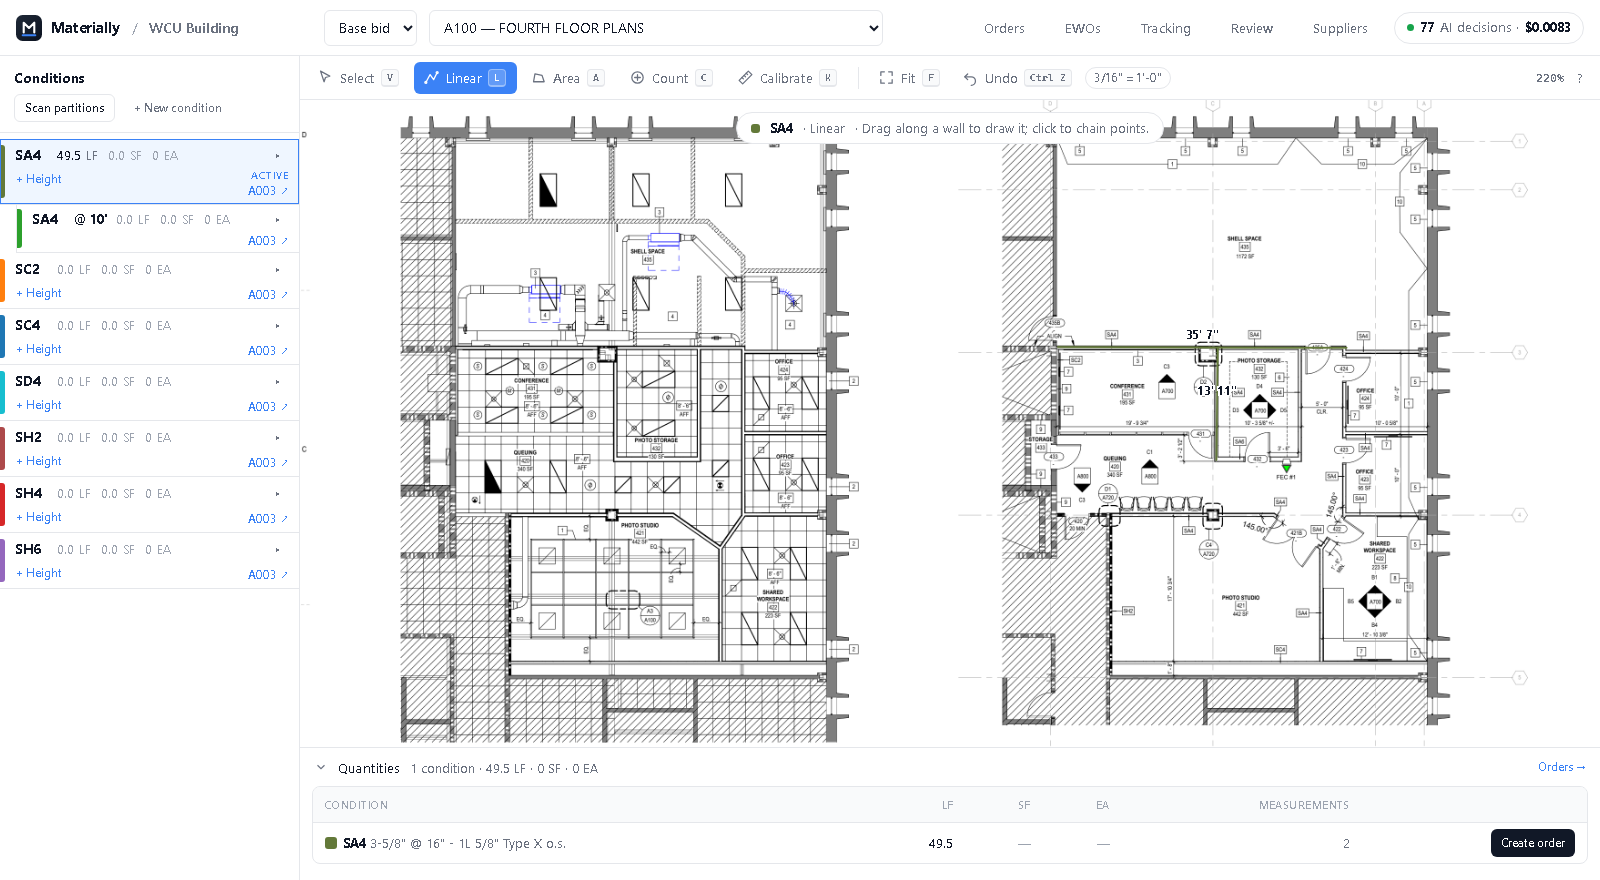
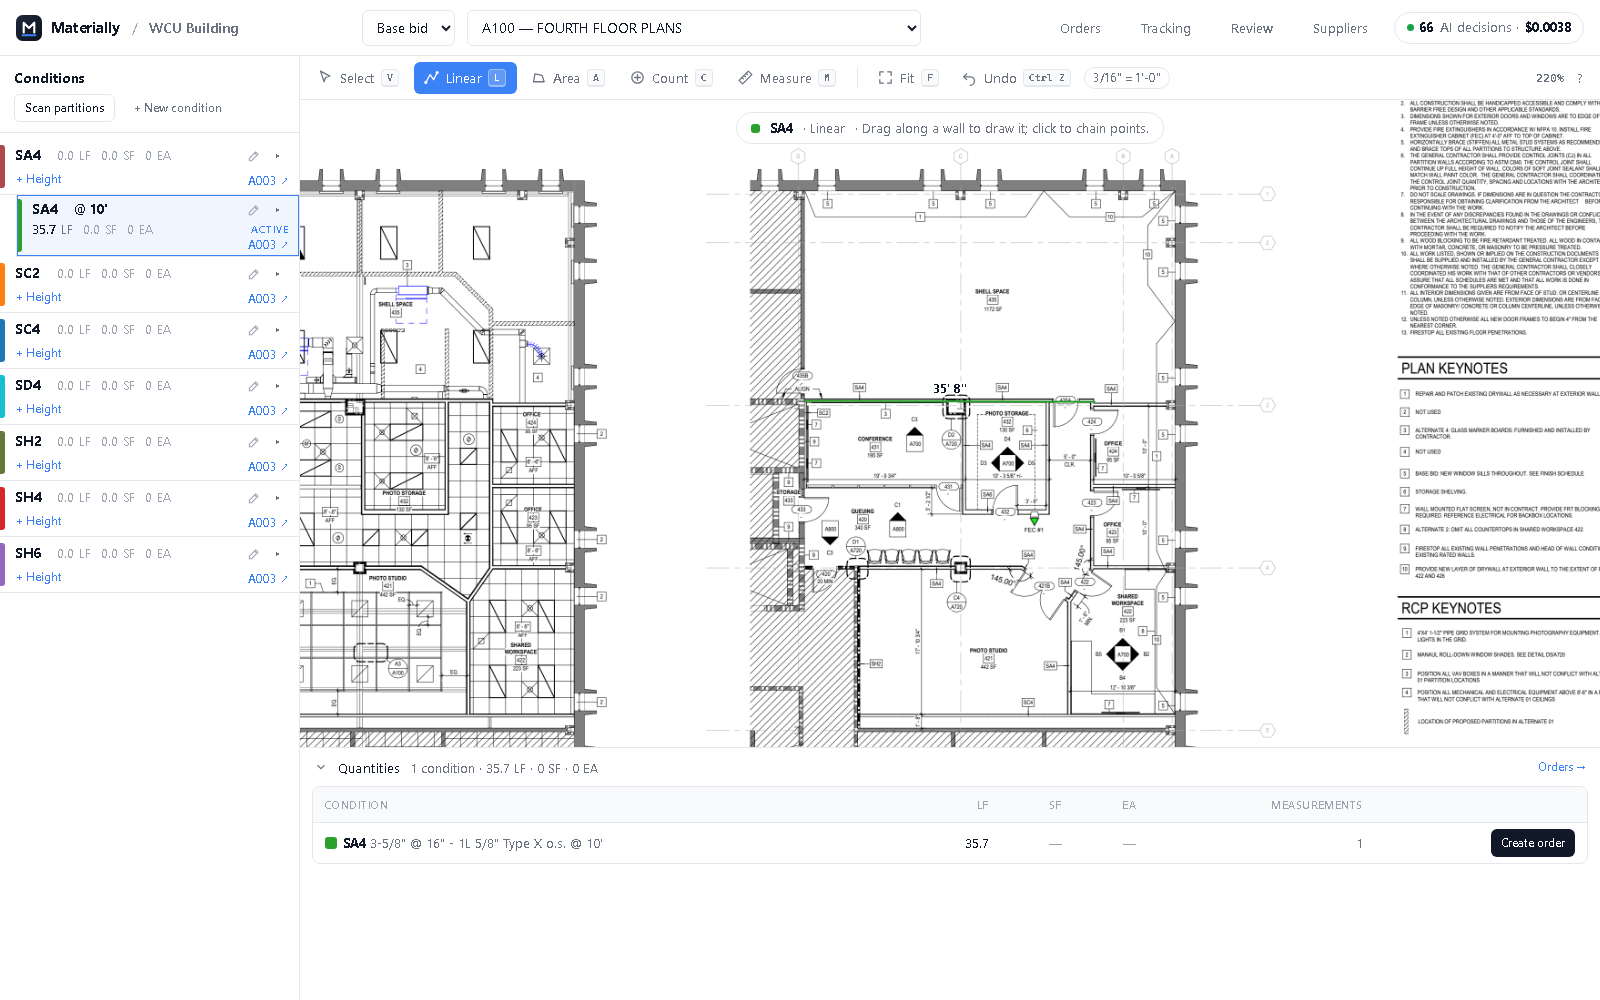
README: new takeoff screenshot; a height's numbers wrap whole
- docs/screenshots/takeoff.png retaken on today's UI: Measure in the toolbar, the edit pencil on every condition,
  no EWOs button, SA4 @ 10' active with its measured wall.
- A narrow condition row (a height, indented and carrying "@ 10'") put "35.7 / LF" on two lines; its LF / SF / EA
  now drop to the next line as a unit.

diff --git a/ui/static/takeoff.css b/ui/static/takeoff.css
@@ -112,8 +112,9 @@ button.chip { cursor: pointer; } button.chip:hover { border-color: var(--accent)
 .crow:focus-visible { box-shadow: inset 0 0 0 2px var(--accent); }
 .crow.active { background: var(--accent-soft); }
 .crow.active::after { content: ""; position: absolute; inset: 0; border: 1.5px solid var(--accent); pointer-events: none; }
-.ctop { display: flex; align-items: baseline; gap: 8px; min-width: 0; min-height: 22px; }
+.ctop { display: flex; flex-wrap: wrap; align-items: baseline; gap: 0 8px; min-width: 0; min-height: 22px; }  /* a narrow row (a height) puts its numbers on the next line, whole */
 .ctag { font-size: 14px; font-weight: 700; min-width: 34px; }
+.cnums span { white-space: nowrap; }
 .cnums { display: flex; gap: 10px; font-size: 11.5px; color: var(--muted); font-variant-numeric: tabular-nums; }
 .cnums b { font-size: 13px; color: var(--ink); font-weight: 600; margin-right: 2px; }
 .cnums .zero b { color: var(--faint); font-weight: 500; } .cnums .zero { color: var(--faint); }
